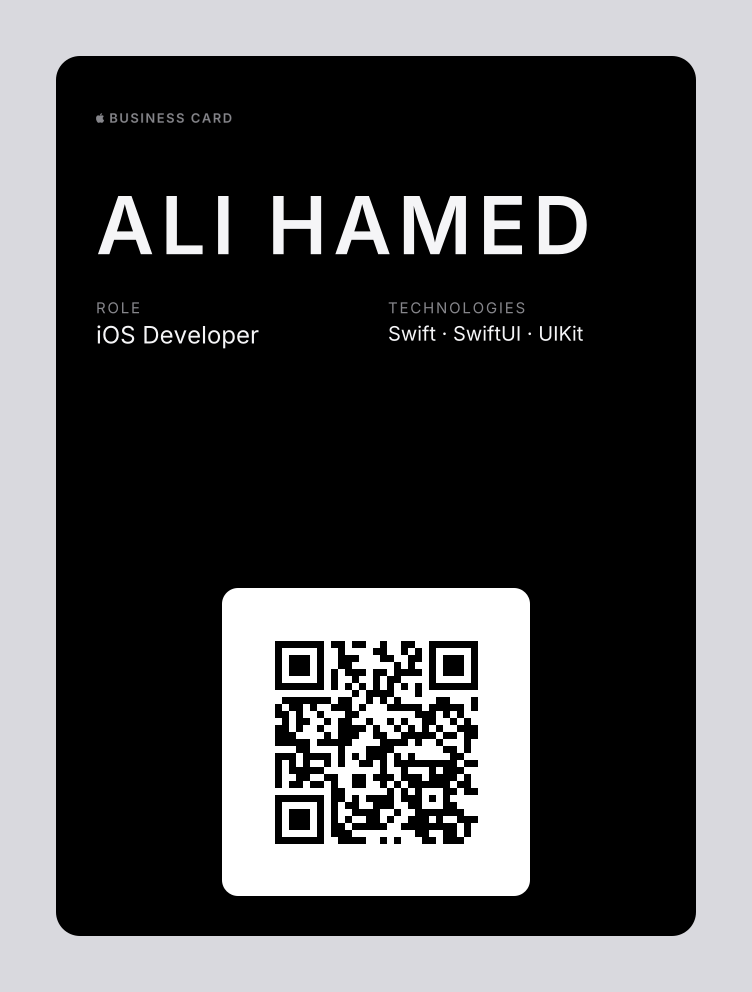
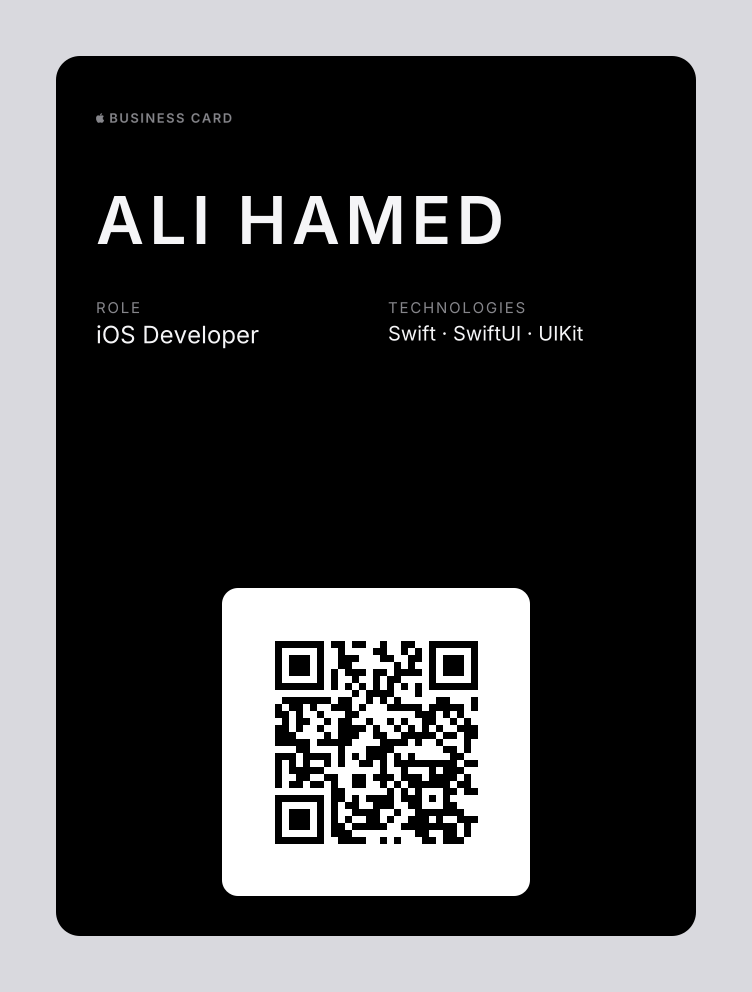
Wallet pass preview: reduce primary-field type size ~17.5%
ALI HAMED was overwhelming the BUSINESS CARD header and the rest of the
mockup. Reduce scripts/make-preview.mjs's primaryFontSize from 80 to 66
(letter-spacing scales with it) and widen the gap before the ROLE/
TECHNOLOGIES row from 48 to 58 to offset the shorter glyph height, keeping
the fields row at roughly its original position. Mockup-only: no change to
src/lib/pass.mjs, pass.json fields, or the generated wallet image assets.

Changed region(s): [[0.1223, 0.1875, 0.7952, 0.2812]]

diff --git a/.superpowers/wallet-redesign-report.md b/.superpowers/wallet-redesign-report.md
@@ -145,3 +145,62 @@ generated `logo@2x.png` (Apple mark + BUSINESS CARD). Regenerated via
   `src/icons/`, `src/lib/site.mjs`: confirmed untouched (`git diff` empty).
 - No dependencies added (`package.json`/no lockfile diff).
 - Not pushed, not merged.
+
+---
+
+# Follow-up: primary-field type size reduction (2026-08-24)
+
+Base commit for this change: `86de3a4`.
+
+## Status
+Complete. Mockup-only change to `scripts/make-preview.mjs`; `preview/apple-wallet-pass.png`
+is the only regenerated output.
+
+## What changed and why
+
+Client feedback: `ALI HAMED` (`primaryFields[0]`) rendered too large in the
+preview mockup, overwhelming the "BUSINESS CARD" header and the rest of the
+pass.
+
+- `primaryFontSize` reduced from `80` to `66` (17.5% reduction, within the
+  requested 15-20% range). Letter-spacing (`primaryFontSize * 0.08`) scales
+  down with it automatically, unchanged relative tracking.
+- The gap between the primary field and the ROLE/TECHNOLOGIES row (`fieldsY`
+  offset) widened from `48` to `58` to offset the primary field's shorter
+  glyph height at the new size, so that row lands within ~0.2px of its
+  original absolute position on the card — keeping the composition even
+  rather than letting extra dead space open up above the QR panel (which is
+  anchored to the bottom of the card and unaffected by this change).
+- Nothing else in the file changed. `src/lib/pass.mjs` (the real
+  `pass.json` field arrangement), `config.json`, `src/index.html`,
+  `src/styles.css`, `src/icons/`, `src/lib/site.mjs`, `docs/`, and the six
+  `wallet/AliHamed.pass/*.png` assets were not touched.
+
+Measured glyph heights (via `wordmarkSVG`) confirm the primary field is
+still clearly dominant after the reduction: 48.02px tall at fontSize 66 vs.
+22.93px for the ROLE value (fontSize 24) and 15.49px for the TECHNOLOGIES
+value (fontSize 20) — roughly 2x the next-largest field, same as before
+proportionally, just no longer visually overwhelming the header.
+
+**Note on real-device behavior:** as called out in the task brief, on an
+actual iOS device PassKit — not this script — controls the rendered size of
+a primary field; nothing in `src/lib/pass.mjs` or `pass.json` specifies a
+font size for `primaryFields`. This mockup's `primaryFontSize` constant is
+purely an approximation for visual review and has no bearing on the real
+pass's appearance. Nothing in the codebase implies otherwise.
+
+## Verification
+
+- `npm run preview:pass` run twice in a row: `preview/apple-wallet-pass.png`
+  byte-identical both times, sha256
[1 lines of base64/hex data omitted]
+  30199 bytes; previously 31063 bytes at the larger size).
+- QR code inside the regenerated PNG decoded via `jsqr`: payload is exactly
+  `https://idalhamed.github.io/card`.
+- `wallet/AliHamed.pass/*.png` (all six files), every file under `docs/`,
+  and `nfc/README.md`: hashed (sha256) before and after — all byte-identical,
+  zero diffs.
+- `npm test`: **100/100 passing**, 0 failures.
+- `git status --short` after the full test run: only `scripts/make-preview.mjs`
+  and `preview/apple-wallet-pass.png` show as modified — nothing else.
+- No dependencies added. Not pushed, not merged.
